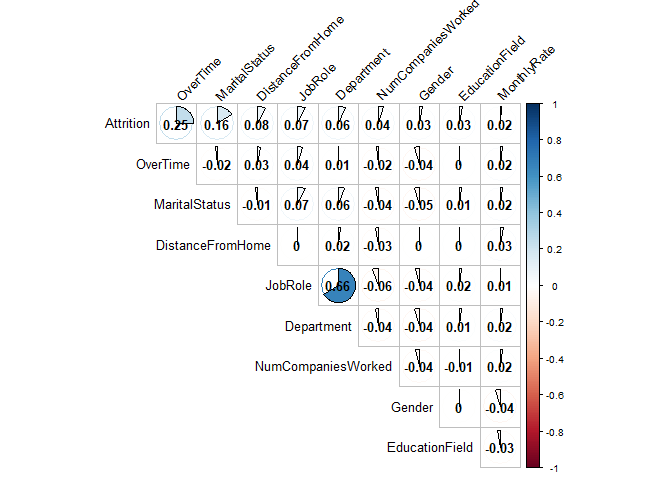
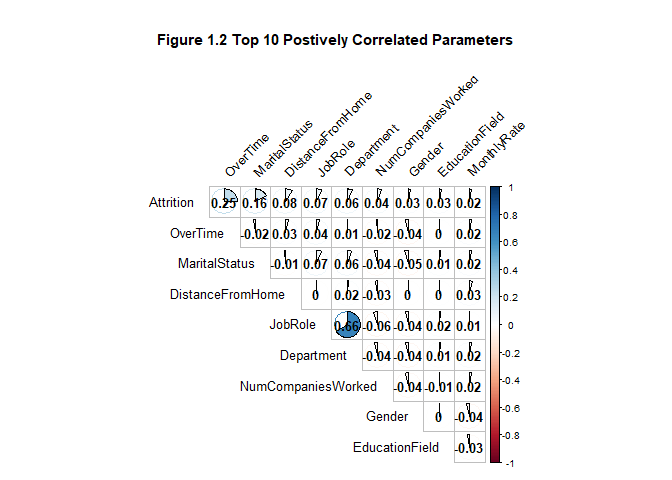
Adjusted bullet points v0.8

Changed region(s): [[0.1562, 0.0312, 0.8438, 1.0], [0.6875, 0.0, 0.7188, 0.0312], [0.5938, 0.125, 0.625, 0.1562]]

diff --git a/CaseStudy2.md b/CaseStudy2.md
@@ -180,7 +180,7 @@ corrplot(as.matrix(Attcor), method="color",
          addCoef.col = "black",
          tl.col="black", tl.srt=45,
          sig.level = 0.05, insig = "blank",
-         title="Figure 1 Complete Coefficients and Correlations", mar=c(0,0,5,0), tl.offset = 1, 
+         title="Figure 1.1 Complete Coefficients and Correlations", mar=c(0,0,5,0), tl.offset = 1, 
          diag=FALSE)
 ```
 
@@ -195,6 +195,7 @@ corrplot(as.matrix(Attcor[SA10,SA10]), method="pie",
          addCoef.col = "black",
          tl.col="black", tl.srt=45,
          sig.level = 0.05, insig = "blank", 
+         title="Figure 1.2 Top 10 Postively Correlated Parameters", mar=c(0,0,5,0), tl.offset = 1, 
          diag=FALSE)
 ```
 
